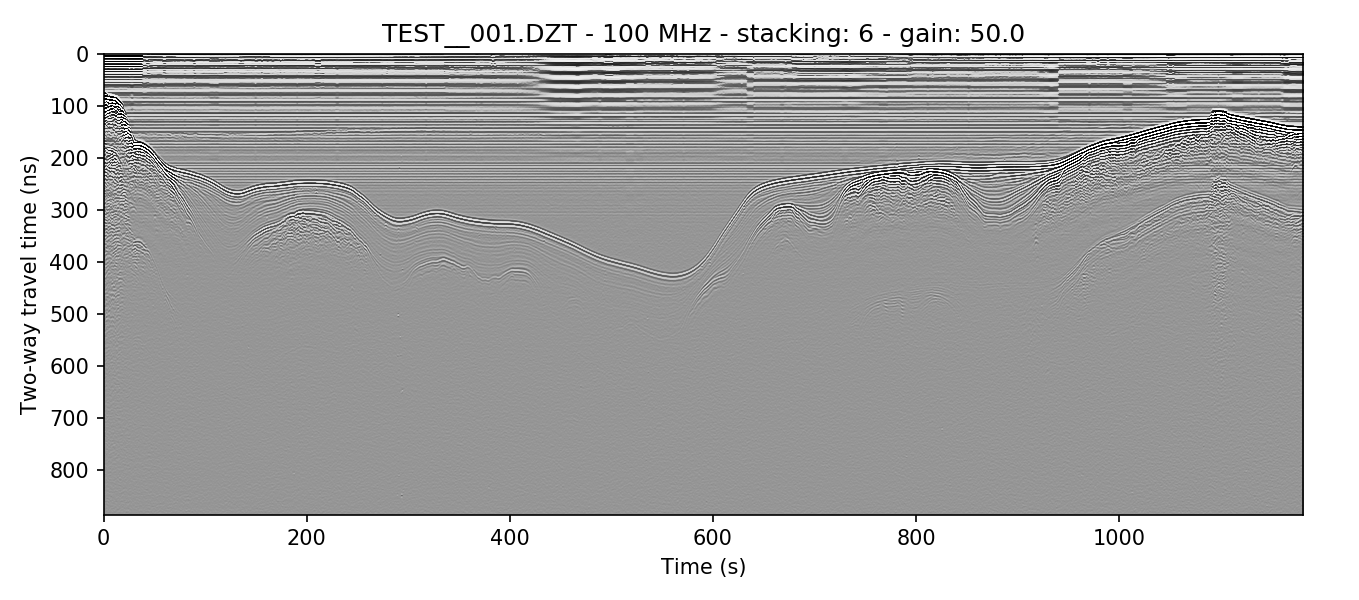
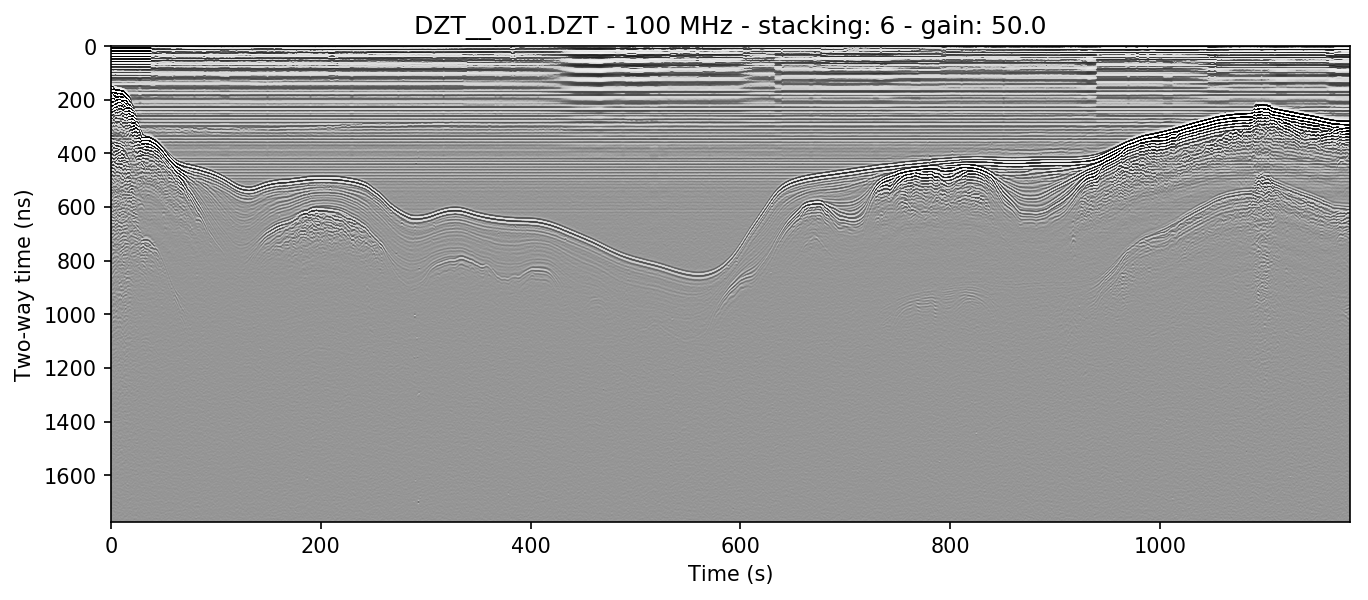
updating example images and readme

Changed region(s): [[0.0, 0.03, 0.989, 0.99], [0.7726, 0.45, 0.8035, 0.48]]

diff --git a/README.md b/README.md
@@ -117,7 +117,7 @@ Simply specifying an input DZT file like in the above command (`-i file`) will d
 - traces per second
 - L1 dielectric as entered during survey
 - sampling depth
-- speed of light at given dielectric
+- speed of wave at given dielectric
 - number of traces
 - number of seconds
 
@@ -136,19 +136,17 @@ Applies 8x stacking, dewow, and background removal filters before exporting to C
 ### plotting
 #### example 1A: without gain
 ```bash
-readgssi -i DZT__001.DZT -o  -p 5 -s auto -m
+readgssi -i DZT__001.DZT -o 1a.png -p 5 -s auto
 ```
-The above command will cause `readgssi` to save and show a plot named "TEST__001c0Tz233S6G1.png" with a y-size of 5 inches at 150 dpi (`-p 5`) and the autostacking algorithm will stack the x-axis to some multiple of times shorter than the original data array for optimal viewing on a monitor, approximately 2.5\*y (`-s auto`). The plot will be rendered in the `Greys` color scheme. The `-m` flag will draw a histogram for each data channel.
+The above command will cause `readgssi` to save and show a plot named "TEST__001c0Tz233S6G1.png" with a y-size of 5 inches at 150 dpi (`-p 5`) and the autostacking algorithm will stack the x-axis to some multiple of times shorter than the original data array for optimal viewing on a monitor, approximately 2.5\*y (`-s auto`). The plot will be rendered in the `Greys` color scheme.
 ![Example 1a](https://github.com/iannesbitt/readgssi/raw/master/examples/1a.png)
-![Example 1a histogram](https://github.com/iannesbitt/readgssi/raw/master/examples/1a-h.png)
 
 #### example 1B: with gain
 ```bash
-readgssi -i DZT__001.DZT -o 1b.png -p 5 -s auto -g 50 -m -r 0
+readgssi -i DZT__001.DZT -o 1b.png -p 5 -s auto -g 50 -r 0
 ```
-This will cause `readgssi` to create a plot from the same file, but matplotlib will save the plot as "1b.png" (`-o 1b.png`). The script will plot the y-axis size (`-p 5`) and automatically stack the x-axis to (`-s auto`). The script will plot the data with a gain value of 50 (`-g 50`), which will increase the plot contrast by a factor of 50. Next `readgssi` will run the background removal (`-r 0`) filter. Finally, the `-m` flag will draw a histogram for each data channel. Note how the histogram changes when filters are applied.
+This will cause `readgssi` to create a plot from the same file, but matplotlib will save the plot as "1b.png" (`-o 1b.png`). The script will plot the y-axis size (`-p 5`) and automatically stack the x-axis to (`-s auto`). The script will plot the data with a gain value of 50 (`-g 50`), which will increase the plot contrast by a factor of 50. Next `readgssi` will run the background removal (`-r 0`) filter.
 ![Example 1b](https://github.com/iannesbitt/readgssi/raw/master/examples/1b.png)
-![Example 1b histogram](https://github.com/iannesbitt/readgssi/raw/master/examples/1b-h.png)
 
 #### example 1C: the right gain settings can be slightly different depending on your colormap
 ```bash
@@ -159,19 +157,31 @@ Here, a horizontal background removal is applied, but gain is turned down (`-g 2
 
 #### example 2A: no background removal
 ```bash
-readgssi -i DZT__002.DZT -o 2a.png -p 5 -s 5 -n
+readgssi -i DZT__002.DZT -o 2a.png -p 5 -s 5 -n -m
 ```
-Sometimes, files will look "washed out" due to a skew relative to the mean of the data. This is easily correctable. Here `readgssi` will create a plot of size 5 and stack 5x (`-p 5 -s 5`). Matplotlib will use the default "Greys" colormap and save a PNG of the figure, but the script will suppress the matplotlib window (using the `-n` flag, useful for processing an entire directory full of DZTs at once).
+Sometimes, files will look "washed out" due to a skew relative to the mean of the data. This is easily correctable. Here `readgssi` will create a plot of size 5 and stack 5x (`-p 5 -s 5`). Matplotlib will use the default "Greys" colormap and save a PNG of the figure, but the script will suppress the matplotlib window (using the `-n` flag, useful for processing an entire directory full of DZTs at once). Finally, the `-m` flag will draw a histogram for each data channel. Note how the histogram changes when filters are applied.
 ![Example 2a](https://github.com/iannesbitt/readgssi/raw/master/examples/2a.png)
+![Example 2a histogram](https://github.com/iannesbitt/readgssi/raw/master/examples/2a-h.png)
 
 #### example 2B: horizontal mean BGR algorithm applied
-The flag to get rid of the skew (or any horizontally uniform noise) is `-r`, also known as background removal or BGR for short. `-r` has two modes, one set by `-r 0` and one set when the option after the `-r` flag is greater than zero. When this BGR option is zero, the program simply subtracts the average of each profile row from the array. When it's greater than 0, `readgssi` will implement a moving window mean, the size of which is set in **post-stack** traces. `-r 50` would subtract the average of 25 cells to the left and right of the current cell, for each cell in the array. This is, for all intents and purposes, the same as RADAN's "BOXCAR" method of horizontal noise removal, but much, much faster because it uses a `scipy` function.
+The flag to get rid of the skew (or any horizontally uniform noise) is `-r`, also known as background removal or BGR for short. `-r` has two modes, one set by `-r 0` and one set when the option after the `-r` flag is greater than zero. When this BGR option is zero, the program simply subtracts the average of each profile row from the array. When it's greater than 0, `readgssi` will implement a moving window mean, the size of which is set in **post-stack** traces (see [example 2C](#example-2c-moving-window-horizontal-mean)).
 
-The command below does the same thing as above, except `-r 0` applies full width horizontal mean background removal to the profile. Note the difference in ringing artifacts and skew between examples 2a and 2b.
+The command below does the same thing as [example 2A](#example-2a-no-background-removal), except `-r 0` applies full width horizontal mean background removal to the profile. Note the difference in ringing artifacts and skew between examples 2a and 2b.
 ```bash
-readgssi -i DZT__002.DZT -o 2b.png -p 5 -s 5 -n -r 0
+readgssi -i DZT__002.DZT -o 2b.png -p 5 -s 5 -n -m -r 0
 ```
 ![Example 2b](https://github.com/iannesbitt/readgssi/raw/master/examples/2b.png)
+![Example 2b histogram](https://github.com/iannesbitt/readgssi/raw/master/examples/2b-h.png)
+
+#### example 2C: moving window horizontal mean
+
+```bash
+readgssi -i DZT__002.DZT -o 2c.png -p 5 -s 5 -n -m -r 75 -g 8
+```
+Same as above but with a 75-trace wide moving window mean (`-r 75`). This width represents post-stack traces. This is, for all intents and purposes, the same as RADAN's "BOXCAR" method of horizontal noise removal, but much, much faster. Areas beyond the left and right edges are treated as zeros. Notice that the noise in the water column is nearly entirely wiped out, but real data is extended with lateral wisps the size of half of the window, which is a side-effect of this method. Note that the histogram (`-m`) has a fairly even distribution around the mean, which generally indicates that the image should be fairly readable.
+
+![Example 2c](https://github.com/iannesbitt/readgssi/raw/master/examples/2c.png)
+![Example 2c histogram](https://github.com/iannesbitt/readgssi/raw/master/examples/2c-h.png)
 
 #### example 3A: (without) distance normalization
 The default behavior of `readgssi` is to plot the X-axis in survey time units (seconds). This can be changed using the `-x` flag. To display in distance units, you must either have GPS information in DZG format, or specify the number of radar traces per meter using the `-d` flag. `-d 24 -x meters` will change the traces per meter value in the header to 24.0 and display the profile with distance in meters along the X-axis.
